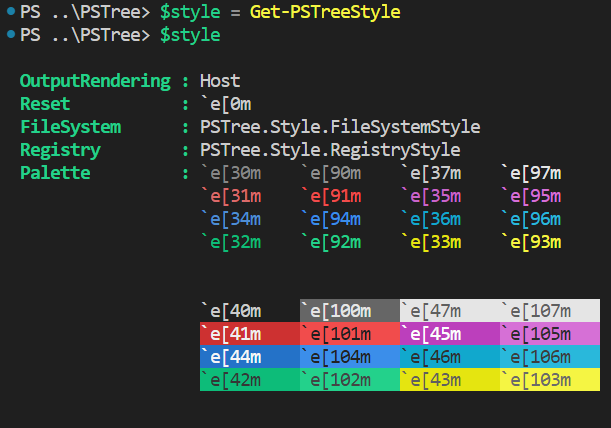
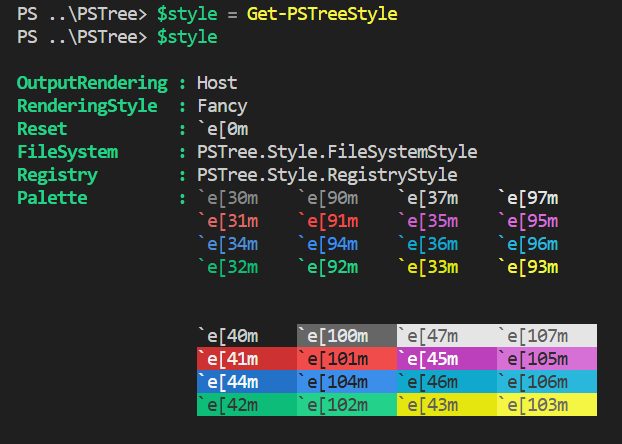
updating docs

diff --git a/src/PSTree/Nodes/TreeRegistryValue.cs b/src/PSTree/Nodes/TreeRegistryValue.cs
@@ -1,11 +1,12 @@
 #if WINDOWS
 using Microsoft.Win32;
-using PSTree.Extensions;
 
 namespace PSTree.Nodes;
 
 public sealed class TreeRegistryValue : TreeRegistryBase
 {
+    private readonly string _name;
+
     internal override bool Include { get; set; } = true;
 
     internal override bool IsContainer { get; } = false;
@@ -20,24 +21,22 @@ public sealed class TreeRegistryValue : TreeRegistryBase
 
     internal TreeRegistryValue(
         TreeRegistryKey key,
-        string value,
+        string name,
         string source,
         int depth)
-        : base(source, $"{key.Path}:{value}", depth)
+        : base(source, $"{key.Path}\\{GetNameOrDefault(name)}", depth)
     {
+        _name = name;
         Container = key;
-        Name = GetNameOrDefault(value);
-        Kind = key.GetValueKind(value);
+        Name = GetNameOrDefault(name);
+        Kind = key.GetValueKind(name);
         PSParentPath = $"{ProviderPath}{key.Path}";
     }
 
-    private static string GetNameOrDefault(string value) =>
-        string.IsNullOrEmpty(value) ? "(Default)" : value;
+    private static string GetNameOrDefault(string name) =>
+        string.IsNullOrEmpty(name) ? "(Default)" : name;
 
     public object? GetValue()
-    {
-        (string path, string? value) = Path.Split([':'], 2);
-        return Microsoft.Win32.Registry.GetValue(path, value, null);
-    }
+        => Container is TreeRegistryKey key ? key.GetValue(_name) : null;
 }
 #endif

diff --git a/src/PSTree/Nodes/TreeRegistryKey.cs b/src/PSTree/Nodes/TreeRegistryKey.cs
@@ -90,6 +90,9 @@ public sealed class TreeRegistryKey : TreeRegistryBase, IDisposable
     internal RegistryValueKind GetValueKind(string value)
         => _key.GetValueKind(value);
 
+    internal object? GetValue(string name)
+        => Microsoft.Win32.Registry.GetValue(Path, name, null);
+
     public void Dispose() => _key.Dispose();
 }
 #endif

diff --git a/docs/en-US/about_TreeStyle.md b/docs/en-US/about_TreeStyle.md
@@ -6,16 +6,20 @@ Customizing PSTree Output with TreeStyle.
 
 ## SHORT DESCRIPTION
 
-The `TreeStyle` class enables customization of the hierarchical output for `Get-PSTree` and `Get-PSTreeRegistry` cmdlets in the PSTree module.
+The `TreeStyle` class enables customization of the hierarchical output for `Get-PSTree` and `Get-PSTreeRegistry` cmdlets
+ in the PSTree module.
 
 ## LONG DESCRIPTION
 
-PSTree version 2.2.0 and later introduces support for coloring the hierarchical output of the `Get-PSTree` and `Get-PSTreeRegistry` cmdlets using the `TreeStyle` class. This class provides a subset of features similar to those in PowerShell’s built-in [PSStyle][1].
-You can access the singleton instance of `TreeStyle` through either the [Get-PSTreeStyle][2] cmdlet or the `[PSTree.Style.TreeStyle]::Instance` property:
+[__PSTree v2.2.0__](../../CHANGELOG.md#v220) and later introduces support for coloring the hierarchical output of the `Get-PSTree` and
+ `Get-PSTreeRegistry` cmdlets using the `TreeStyle` class. This class provides a subset of features similar to those in
+ PowerShell’s built-in [PSStyle][1].  
+You can access the singleton instance of `TreeStyle` through either the [Get-PSTreeStyle][2] cmdlet or the
+ `[PSTree.Style.TreeStyle]::Instance` property:
 
 <div>
   &nbsp;&nbsp;&nbsp;
-  <img src="../../assets/TreeStyle.png" alt="TreeStyle" width="35%" height="35%">
+  <img src="../../assets/TreeStyle.png" alt="TreeStyle" width="50%">
 </div>
 
 The `TreeStyle` class offers methods for combining escape sequences and applying text accents, such as bold or italic. See the next section for additional details.
@@ -23,31 +27,29 @@ The `TreeStyle` class offers methods for combining escape sequences and applying
 Here are its members:
 
 ```powershell
-   TypeName: PSTree.Style.TreeStyle
+   ReflectedType: PSTree.Style.TreeStyle
 
-Name            MemberType Definition
-----            ---------- ----------
-CombineSequence Method     string CombineSequence(string left, string right)
-Equals          Method     bool Equals(System.Object obj)
-EscapeSequence  Method     string EscapeSequence(string vt)
-GetHashCode     Method     int GetHashCode()
-GetType         Method     type GetType()
-ResetSettings   Method     void ResetSettings()
-ToBold          Method     string ToBold(string vt)
-ToItalic        Method     string ToItalic(string vt)
-ToString        Method     string ToString()
-FileSystem      Property   PSTree.Style.FileSystemStyle FileSystem {get;}
-OutputRendering Property   PSTree.Style.OutputRendering OutputRendering {get;set;}
-Palette         Property   PSTree.Style.Palette Palette {get;}
-Registry        Property   PSTree.Style.RegistryStyle Registry {get;}
-Reset           Property   string Reset {get;}
+Name                  MemberType   Definition
+----                  ----------   ----------
+CombineSequence       Method       public string CombineSequence(string left, string right);
+ResetSettings         Method       public void ResetSettings();
+ToItalic              Method       public string ToItalic(string vt);
+ToBold                Method       public string ToBold(string vt);
+EscapeSequence        Method       public string EscapeSequence(string vt);
+OutputRendering       Property     public OutputRendering OutputRendering { get; set; }
+Palette               Property     public Palette Palette { get; }
+Reset                 Property     public string Reset { get; }
+RenderingStyle        Property     public RenderingStyle RenderingStyle { get; set; }
+Instance              Property     public static TreeStyle Instance { get; }
+FileSystem            Property     public FileSystemStyle FileSystem { get; }
+Registry              Property     public RegistryStyle Registry { get; }
 ```
 
 The `.EscapeSequence()` method reveals the escape sequence applied to generate specific colors or accents. For example:
 
 <div>
   &nbsp;&nbsp;&nbsp;
-  <img src="../../assets/EscapeSequence.png" alt="TreeStyle" width="45%" height="45%">
+  <img src="../../assets/EscapeSequence.png" alt="TreeStyle" width="75%">
 </div>
 
 ## CUSTOMIZING OUTPUT
@@ -65,7 +67,7 @@ Consider the standard output of `Get-PSTree`:
 
 <div>
   &nbsp;&nbsp;&nbsp;
-  <img src="../../assets/Get-PSTree.Before.png" alt="Get-PSTree.Before" width="45%" height="45%">
+  <img src="../../assets/Get-PSTree.Before.png" alt="Get-PSTree.Before" width="65%">
 </div>
 
 You can adjust the appearance by modifying the `PSTree.Style.FileSystemStyle` object. Here’s an example of how to apply customizations:
@@ -94,12 +96,12 @@ After applying these changes, re-running the same `Get-PSTree` command will disp
 
 <div>
   &nbsp;&nbsp;&nbsp;
-  <img src="../../assets/Get-PSTree.After.png" alt="Get-PSTree.After" width="45%" height="45%">
+  <img src="../../assets/Get-PSTree.After.png" alt="Get-PSTree.After" width="65%">
 </div>
 
 ### Get-PSTreeRegistry
 
-Starting with PSTree version 2.2.3, the [`Get-PSTreeRegistry`][6] cmdlet supports customizable coloring via the `PSTree.Style.RegistryStyle` object. This allows you to define colors for both `TreeRegistryKey` and `TreeRegistryValue` instances.
+Starting with [__PSTree v2.2.3__](../../CHANGELOG.md#v223), the [`Get-PSTreeRegistry`][6] cmdlet supports customizable coloring via the `PSTree.Style.RegistryStyle` object. This allows you to define colors for both `TreeRegistryKey` and `TreeRegistryValue` instances.
 
 - __TreeRegistryKey__: The color is set using the `.RegistryKey` property.
 - __TreeRegistryValue__: The color is controlled by the `.RegistryValueKind` property, a dictionary that maps [RegistryValueKind][4] types to color settings based on the `.Kind` property of each registry value.

diff --git a/docs/en-US/Get-PSTreeStyle.md b/docs/en-US/Get-PSTreeStyle.md
@@ -22,7 +22,7 @@ Get-PSTreeStyle
 
 The `Get-PSTreeStyle` cmdlet provides access to the `TreeStyle` instance that controls the rendering and customization of output for the `Get-PSTree` and `Get-PSTreeRegistry` cmdlets.
 
-For details, see [__about_TreeStyle__](./about_TreeStyle.md).
+To Customize output rendering, see [__about_TreeStyle__](about_TreeStyle.md).
 
 ## EXAMPLES
 
@@ -47,3 +47,16 @@ This cmdlet supports the common parameters. For more information, see [about_Com
 ## OUTPUTS
 
 ### TreeStyle
+
+## NOTES
+
+Modifying the properties of this object (such as colors for files, folders, registry keys, etc.) will immediately affect the
+visual output of `Get-PSTree` and `Get-PSTreeRegistry` in the current PowerShell session.
+
+## RELATED LINKS
+
+[__`Get-PSTree`__](Get-PSTree.md)
+
+[__`Get-PSTreeRegistry`__](Get-PSTreeRegistry.md)
+
+[__about_TreeStyle__](about_TreeStyle.md)